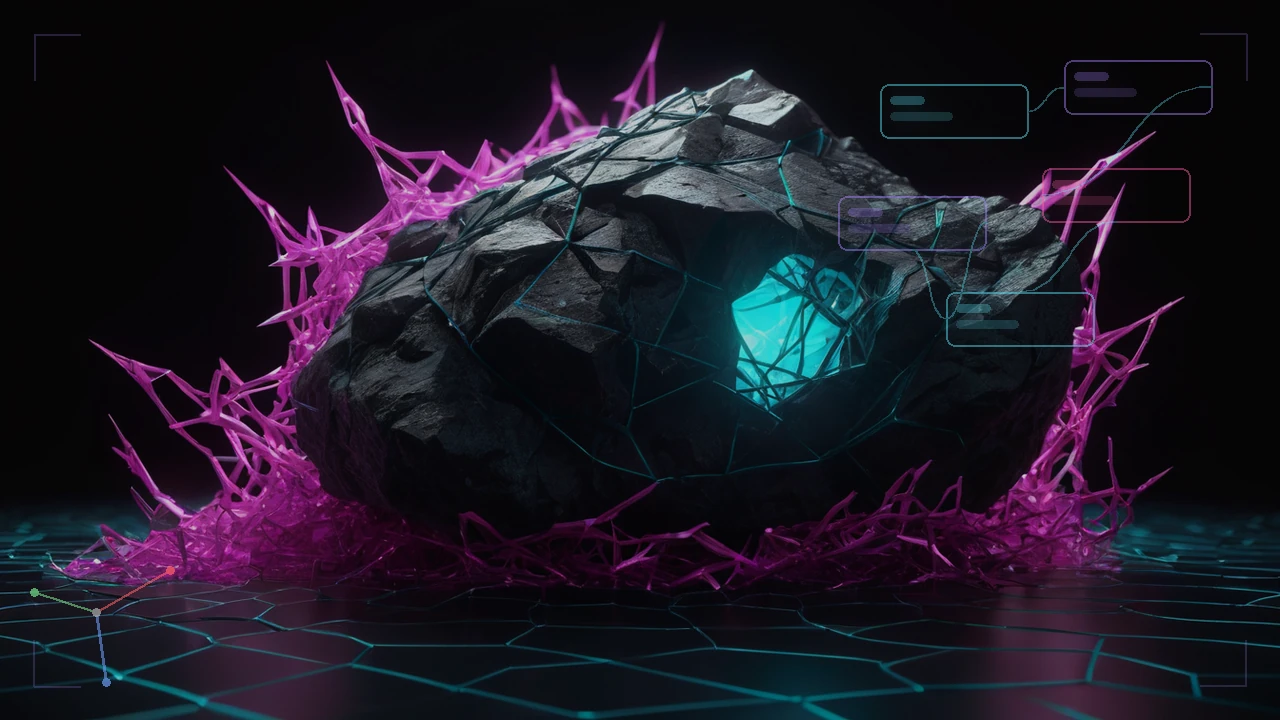
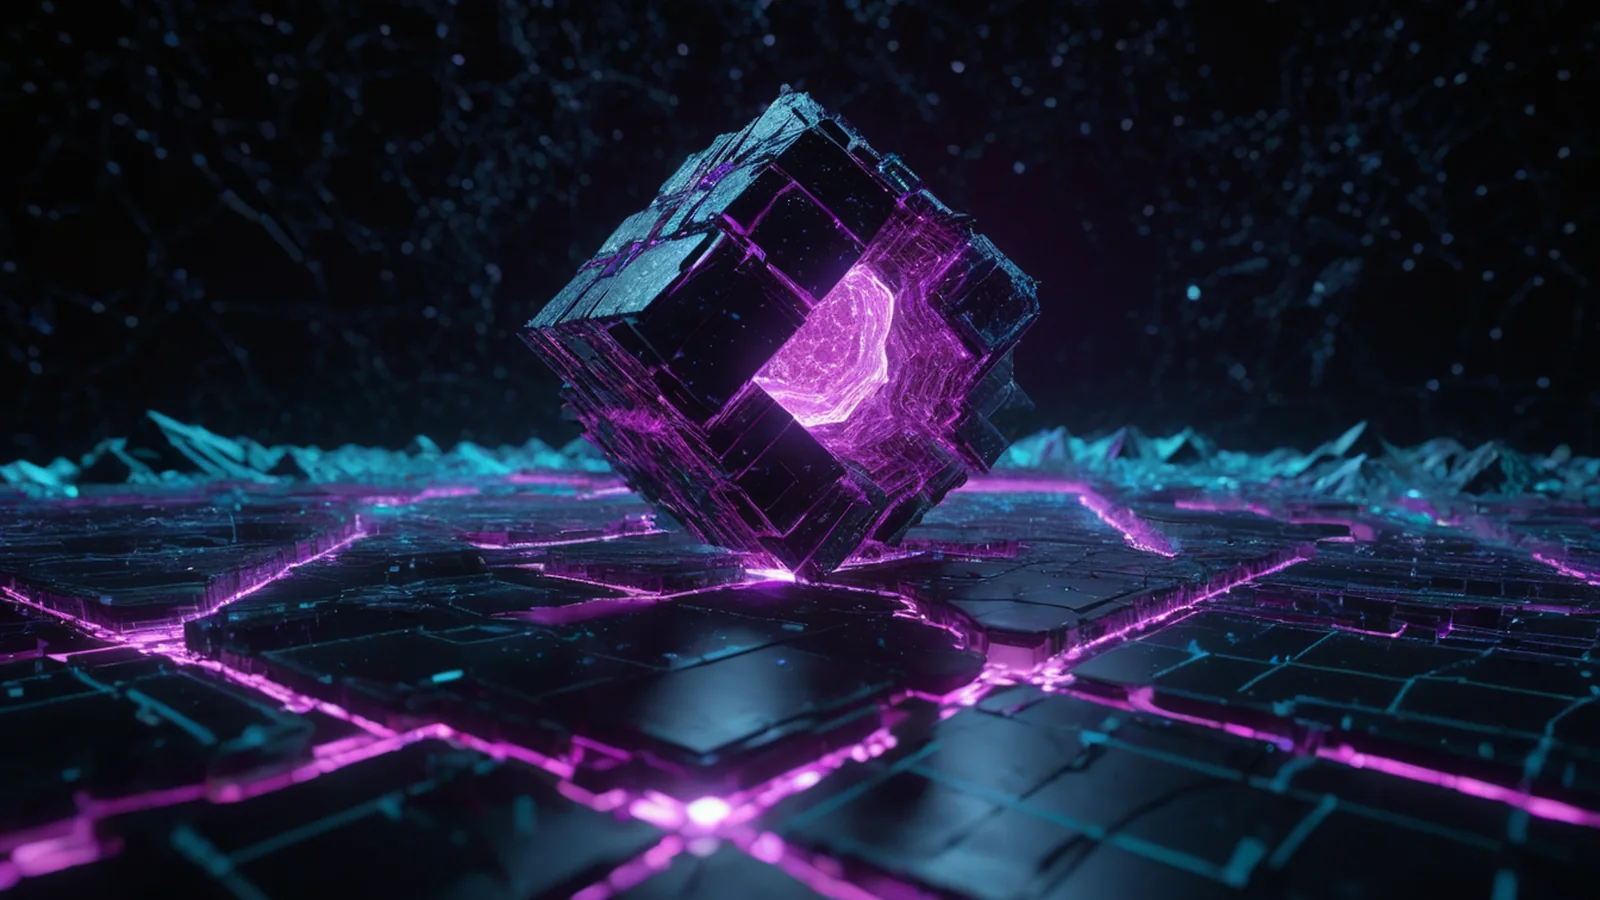
content: 游戏引擎合集改用 ComfyUI 生成图，RestArtEngine开发合集退回开发手记封面

diff --git a/src/content/blogSeries/restarengine-devlog/index.md b/src/content/blogSeries/restarengine-devlog/index.md
@@ -1,7 +1,7 @@
 ---
 title: "RestArtEngine开发"
 description: "RestArtEngine 的开发日记：从能启动到能编辑，再到让编辑成为工作流。每期记录这一阶段做了什么、怎么和 AI 配合、证据在哪、边界到哪。"
-coverImage: "/blog/series/restarengine-devlog/cover.webp"
+coverImage: "/blog/series/restarengine-devlog/banner.webp"
 items: ['restarengine-devlog-01', 'restarengine-devlog-02']
 tags: ['RestArtEngine', '引擎开发', '实时渲染', '编辑器']
 date: 2026-10-20
